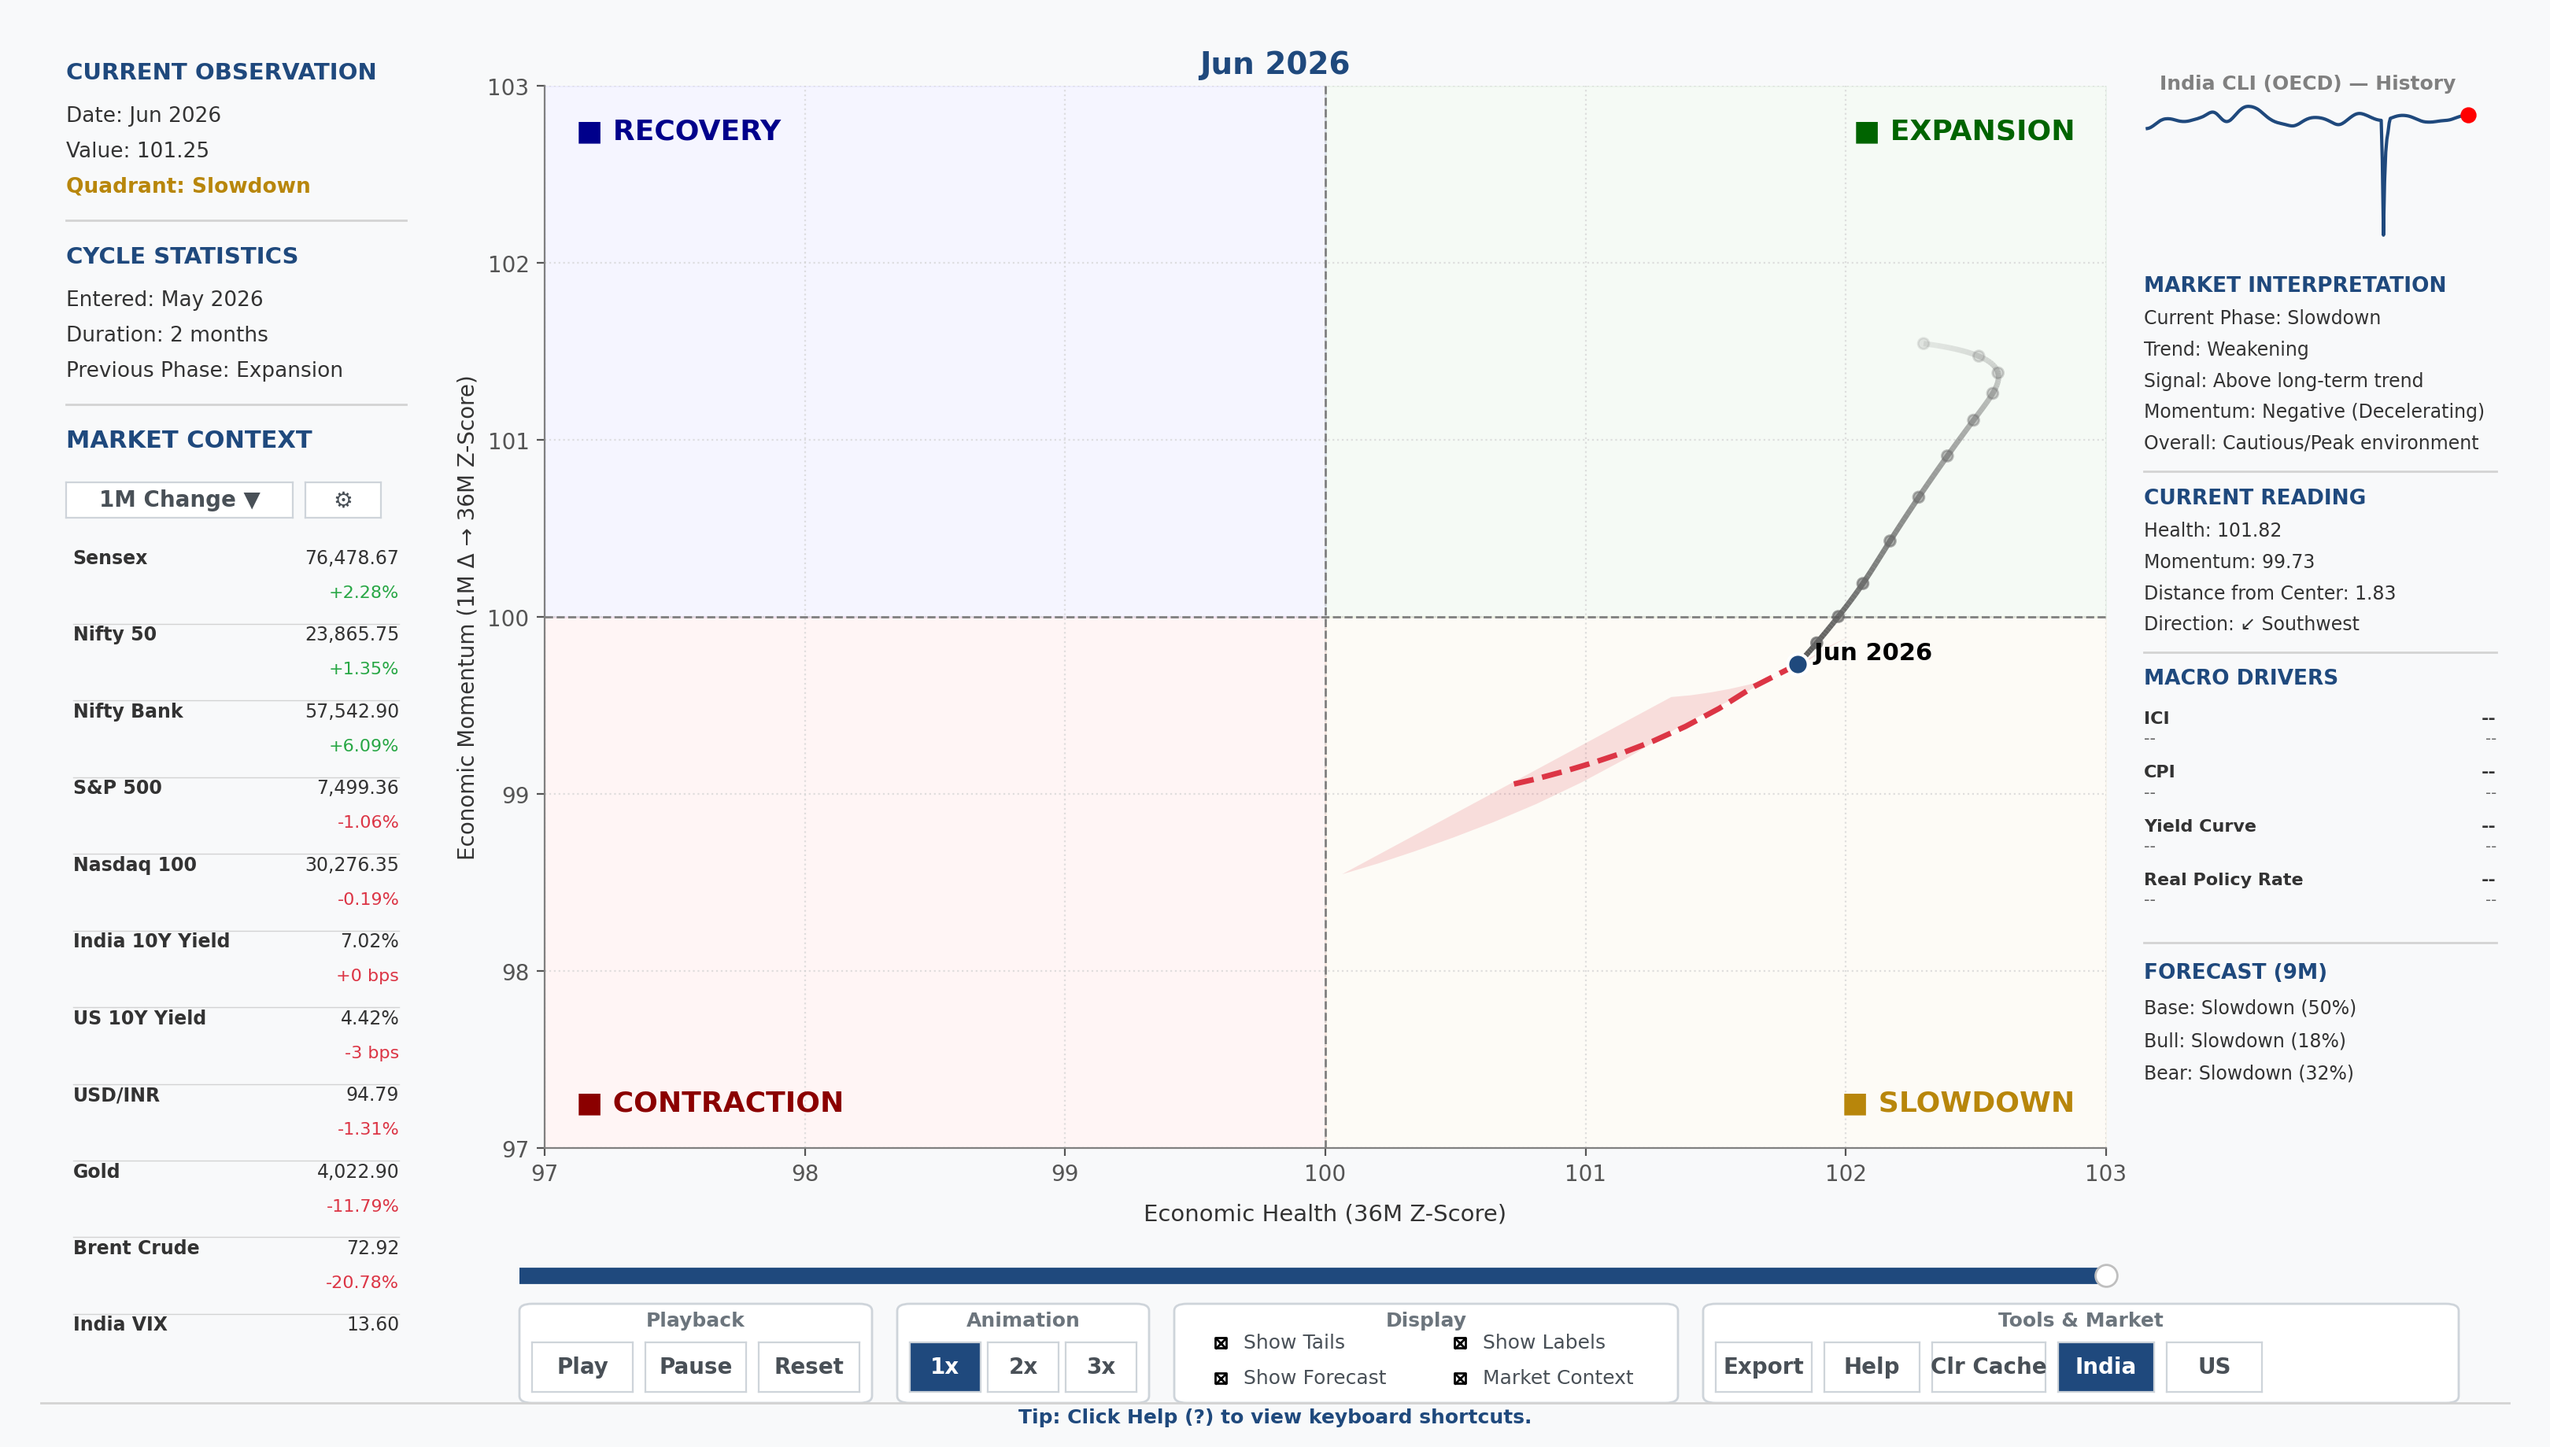
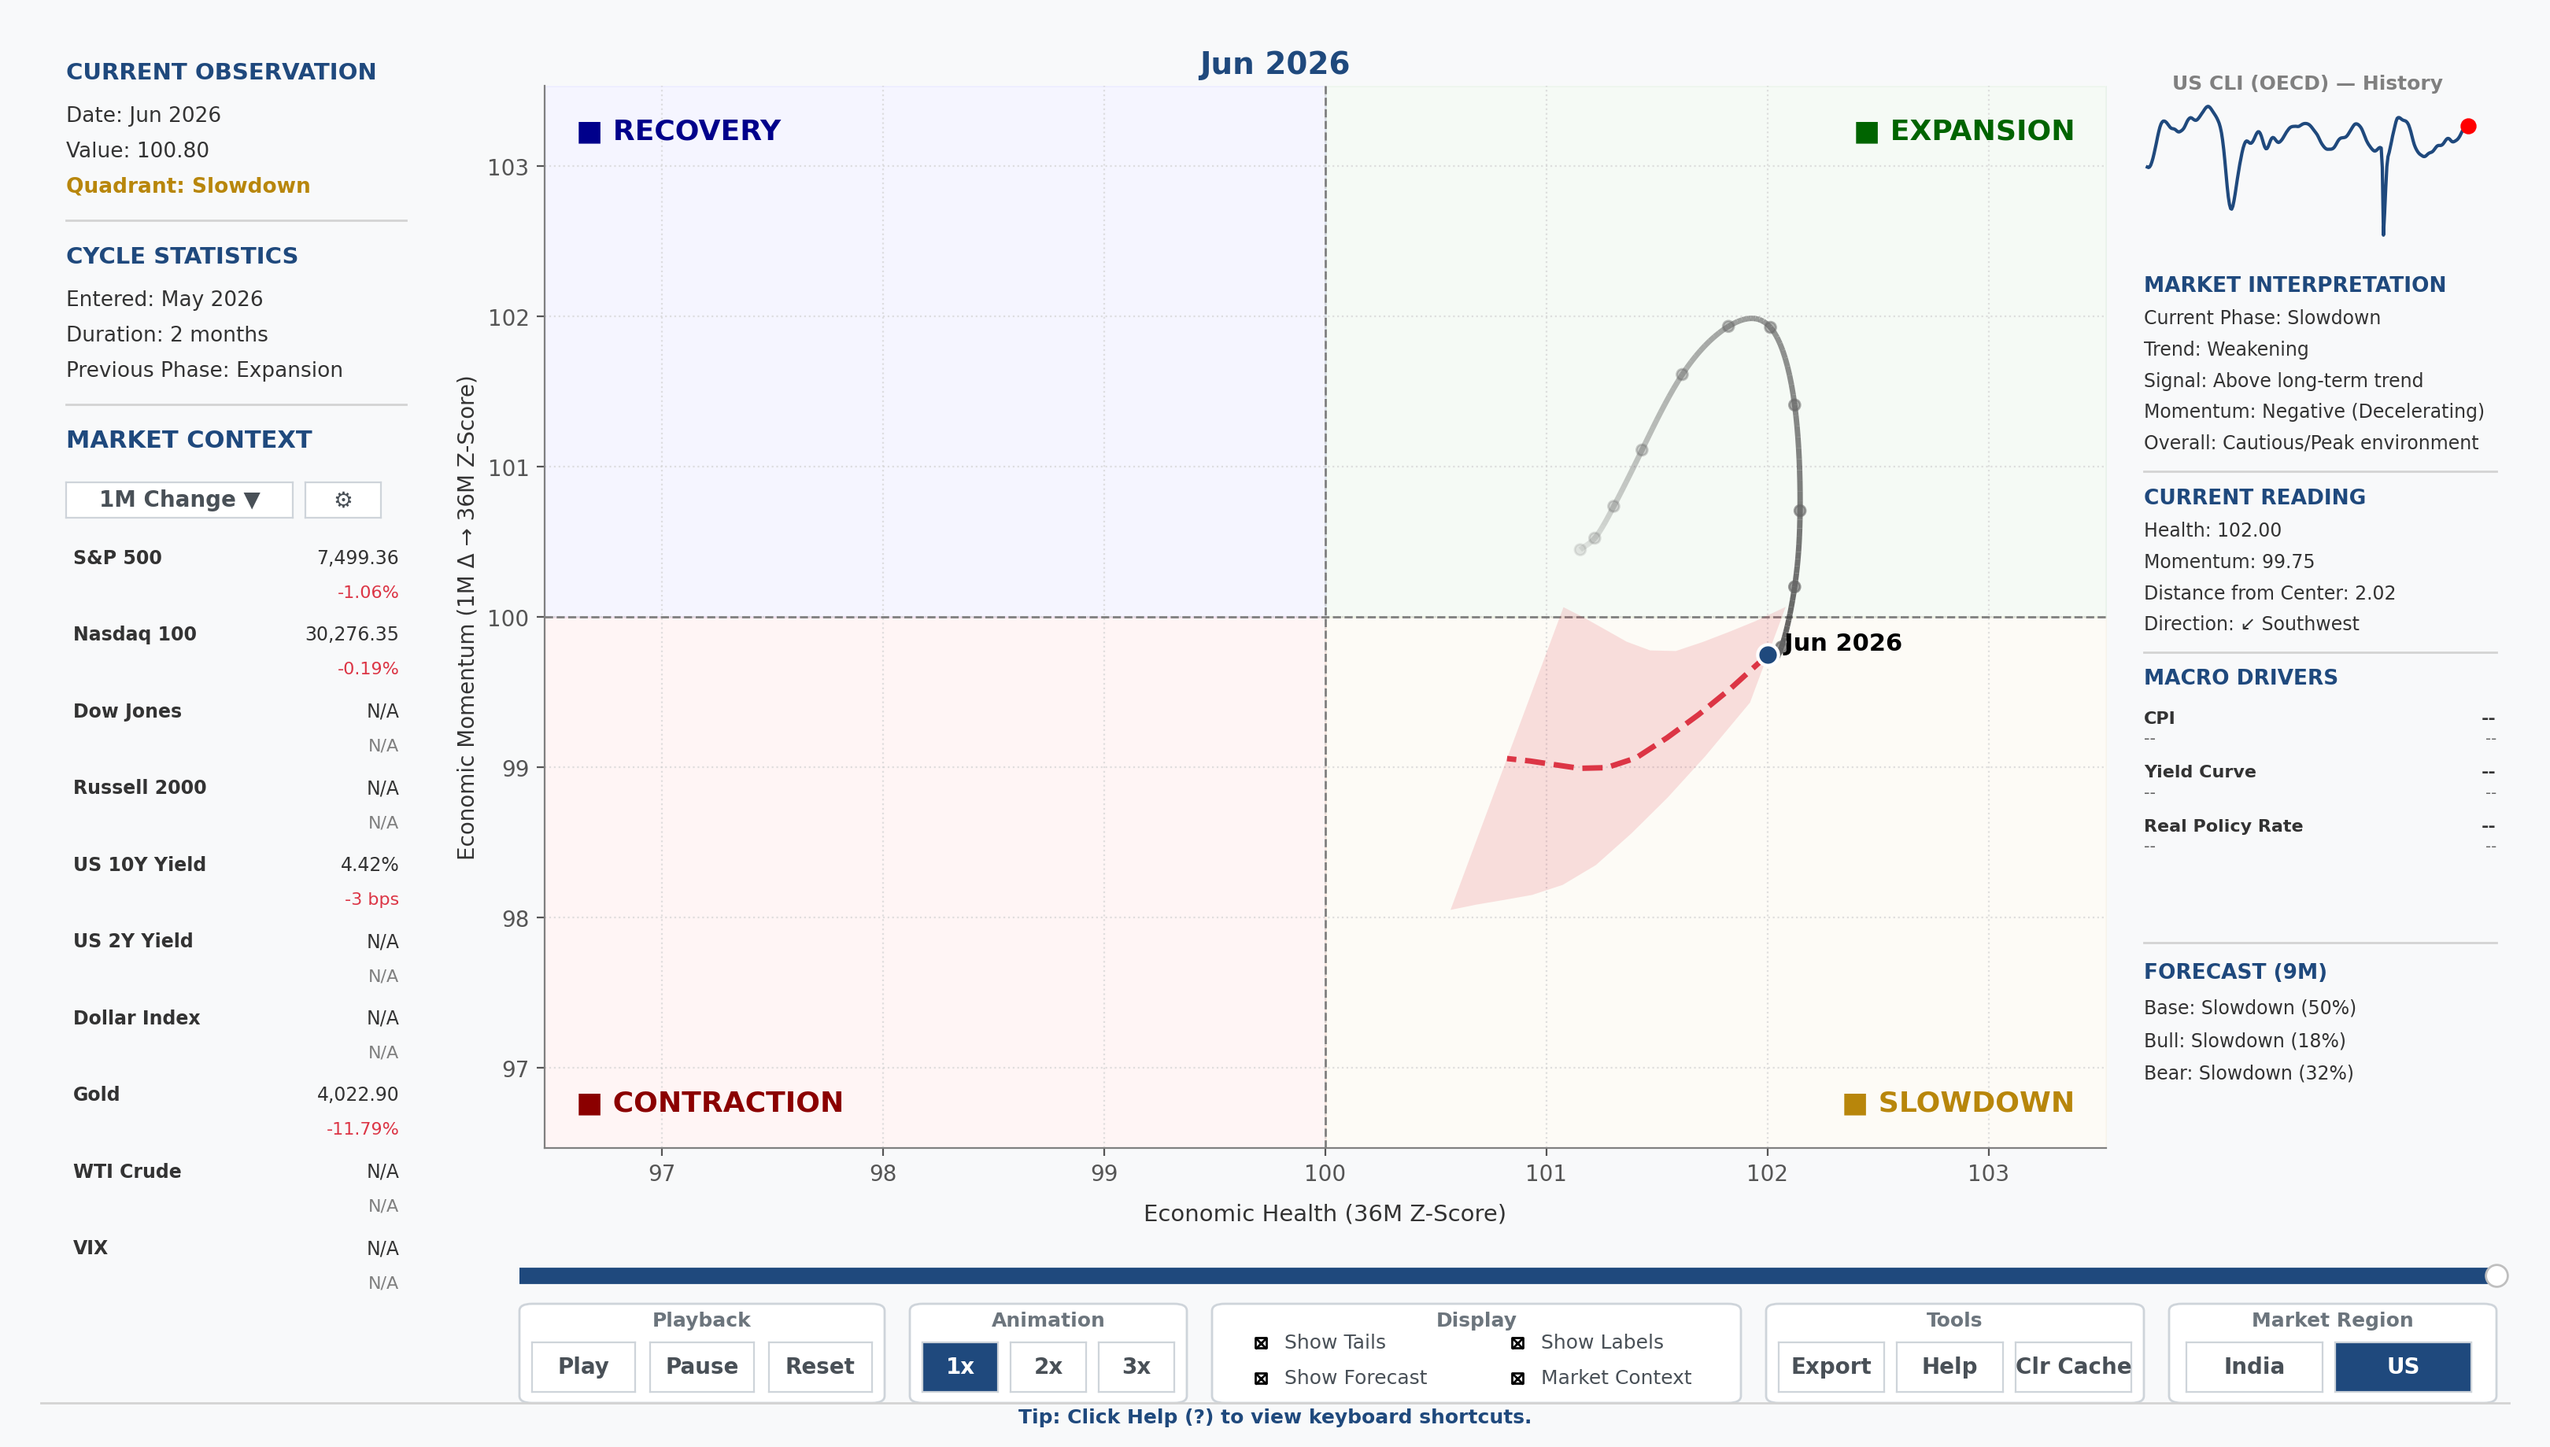
fix: UI polish - remove market divider lines, simplify macro driver labels, update sparkline on market switch

diff --git a/ui/app.py b/ui/app.py
@@ -65,7 +65,7 @@ class App:
          ax_market_cfg, btn_market_cfg) = create_market_panel(self.fig, self.market_series)
 
         # Slider
-        ax_slider = self.fig.add_axes([0.200, 0.10, 0.630, 0.02])
+        ax_slider = self.fig.add_axes([0.200, 0.10, 0.785, 0.02])
         self.slider = Slider(ax_slider, '', 0, self.max_frames,
                              valinit=0, valstep=1, color='#1f497d', initcolor='none')
         self.slider.valtext.set_visible(False)
@@ -74,70 +74,70 @@ class App:
         ax_bg = create_background_axes(self.fig)
         control_bg_elements = []
 
-        pad = 0.005
         grp_y, grp_h = 0.020, 0.070
 
-        # Group 1: Playback
-        control_bg_elements += draw_group_container(self.fig, ax_bg, 0.200, grp_y, 0.140, grp_h, "Playback")
-        ax_play = self.fig.add_axes([0.205, 0.028, 0.040, 0.035])
+        # Group 1: Playback (0.200 -> 0.345)
+        control_bg_elements += draw_group_container(self.fig, ax_bg, 0.200, grp_y, 0.145, grp_h, "Playback")
+        ax_play = self.fig.add_axes([0.205, 0.028, 0.041, 0.035])
         self.btn_play = self._style_button(ax_play, 'Play')
-        ax_pause = self.fig.add_axes([0.250, 0.028, 0.040, 0.035])
+        ax_pause = self.fig.add_axes([0.252, 0.028, 0.041, 0.035])
         self.btn_pause = self._style_button(ax_pause, 'Pause')
-        ax_reset = self.fig.add_axes([0.295, 0.028, 0.040, 0.035])
+        ax_reset = self.fig.add_axes([0.299, 0.028, 0.041, 0.035])
         self.btn_reset = self._style_button(ax_reset, 'Reset')
 
-        # Group 2: Animation
-        control_bg_elements += draw_group_container(self.fig, ax_bg, 0.350, grp_y, 0.100, grp_h, "Animation")
-        ax_1x = self.fig.add_axes([0.355, 0.028, 0.028, 0.035])
+        # Group 2: Animation (0.355 -> 0.465)
+        control_bg_elements += draw_group_container(self.fig, ax_bg, 0.355, grp_y, 0.110, grp_h, "Animation")
+        ax_1x = self.fig.add_axes([0.360, 0.028, 0.030, 0.035])
         self.btn_1x = self._style_button(ax_1x, '1x')
         self.btn_1x.label.set_color('#1f497d')
-        ax_2x = self.fig.add_axes([0.386, 0.028, 0.028, 0.035])
+        ax_2x = self.fig.add_axes([0.395, 0.028, 0.030, 0.035])
         self.btn_2x = self._style_button(ax_2x, '2x')
-        ax_3x = self.fig.add_axes([0.417, 0.028, 0.028, 0.035])
+        ax_3x = self.fig.add_axes([0.430, 0.028, 0.030, 0.035])
         self.btn_3x = self._style_button(ax_3x, '3x')
 
-        # Group 3: Display
-        control_bg_elements += draw_group_container(self.fig, ax_bg, 0.460, grp_y, 0.200, grp_h, "Display")
-        ax_chk_tails = self.fig.add_axes([0.465, 0.045, 0.090, 0.035])
+        # Group 3: Display (0.475 -> 0.685)
+        control_bg_elements += draw_group_container(self.fig, ax_bg, 0.475, grp_y, 0.210, grp_h, "Display")
+        ax_chk_tails = self.fig.add_axes([0.480, 0.045, 0.095, 0.035])
         self.chk_tails = self._style_check(ax_chk_tails, ('Show Tails',), (True,))
-        ax_chk_labels = self.fig.add_axes([0.560, 0.045, 0.090, 0.035])
+        ax_chk_labels = self.fig.add_axes([0.582, 0.045, 0.095, 0.035])
         self.chk_labels = self._style_check(ax_chk_labels, ('Show Labels',), (True,))
-        ax_chk_forecast = self.fig.add_axes([0.465, 0.020, 0.090, 0.035])
+        ax_chk_forecast = self.fig.add_axes([0.480, 0.020, 0.095, 0.035])
         self.chk_forecast = self._style_check(ax_chk_forecast, ('Show Forecast',), (True,))
-        ax_chk_market = self.fig.add_axes([0.560, 0.020, 0.090, 0.035])
+        ax_chk_market = self.fig.add_axes([0.582, 0.020, 0.095, 0.035])
         self.chk_market = self._style_check(ax_chk_market, ('Market Context',), (True,))
 
-        # Group 4: Tools
-        control_bg_elements += draw_group_container(self.fig, ax_bg, 0.670, grp_y, 0.300, grp_h, "Tools & Market")
-        ax_export = self.fig.add_axes([0.675, 0.028, 0.038, 0.035])
+        # Group 4: Tools (0.695 -> 0.845)
+        control_bg_elements += draw_group_container(self.fig, ax_bg, 0.695, grp_y, 0.150, grp_h, "Tools")
+        ax_export = self.fig.add_axes([0.700, 0.028, 0.042, 0.035])
         self.btn_export = self._style_button(ax_export, 'Export')
-        ax_help = self.fig.add_axes([0.718, 0.028, 0.038, 0.035])
+        ax_help = self.fig.add_axes([0.747, 0.028, 0.042, 0.035])
         self.btn_help = self._style_button(ax_help, 'Help')
-        ax_cache = self.fig.add_axes([0.761, 0.028, 0.045, 0.035])
+        ax_cache = self.fig.add_axes([0.794, 0.028, 0.046, 0.035])
         self.btn_cache = self._style_button(ax_cache, 'Clr Cache')
 
-        # Market selector
+        # Group 5: Market Region (0.855 -> 0.985)
+        control_bg_elements += draw_group_container(self.fig, ax_bg, 0.855, grp_y, 0.130, grp_h, "Market Region")
         try:
             from ..config import get_current_market
         except ImportError:
             from config import get_current_market
         current_market = get_current_market()
 
-        ax_market_india = self.fig.add_axes([0.811, 0.028, 0.038, 0.035])
-        self.btn_market_india = Button(ax_market_india, 'India', color='#ffffff', hovercolor='#e9ecef')
+        ax_market_india = self.fig.add_axes([0.862, 0.028, 0.054, 0.035])
+        self.btn_market_india = Button(ax_market_india, 'India', color='#1f497d' if current_market == 'india' else '#ffffff', hovercolor='#e9ecef')
         self.btn_market_india.label.set_fontsize(10)
         self.btn_market_india.label.set_fontweight('bold')
-        self.btn_market_india.label.set_color('#495057')
+        self.btn_market_india.label.set_color('#ffffff' if current_market == 'india' else '#495057')
         for spine in ax_market_india.spines.values():
-            spine.set_color('#ced4da')
+            spine.set_color('#1f497d' if current_market == 'india' else '#ced4da')
 
-        ax_market_us = self.fig.add_axes([0.854, 0.028, 0.038, 0.035])
-        self.btn_market_us = Button(ax_market_us, 'US', color='#ffffff', hovercolor='#e9ecef')
+        ax_market_us = self.fig.add_axes([0.921, 0.028, 0.054, 0.035])
+        self.btn_market_us = Button(ax_market_us, 'US', color='#1f497d' if current_market == 'us' else '#ffffff', hovercolor='#e9ecef')
         self.btn_market_us.label.set_fontsize(10)
         self.btn_market_us.label.set_fontweight('bold')
-        self.btn_market_us.label.set_color('#495057')
+        self.btn_market_us.label.set_color('#ffffff' if current_market == 'us' else '#495057')
         for spine in ax_market_us.spines.values():
-            spine.set_color('#ced4da')
+            spine.set_color('#1f497d' if current_market == 'us' else '#ced4da')
 
         if current_market == 'INDIA':
             self.btn_market_india.color = '#1f497d'
@@ -299,8 +299,28 @@ class App:
             label.set_fontsize(9)
         return chk
 
+    def update_sparkline(self):
+        """Re-plot the right sidebar historic sparkline graph to match current self.df."""
+        self.ax_spark.clear()
+        self.ax_spark.plot(self.df.index, self.df['CLI_Raw'], color='#1f497d', linewidth=1.5)
+        self.ax_spark.axis('off')
+        self.ax_spark.set_title(f"{self.config['name']} — History", fontsize=9, color='gray', pad=5, fontweight='bold')
+        self.spark_pt = self.ax_spark.scatter([], [], color='red', s=40, zorder=5)
+        self.plot_elements['spark_pt'] = self.spark_pt
+        self.plot_elements['ax_spark'] = self.ax_spark
+
+    def update_indicator_config(self):
+        """Update window title and main axes labels after an indicator/market switch."""
+        try:
+            if hasattr(self.fig.canvas.manager, 'set_window_title'):
+                self.fig.canvas.manager.set_window_title(f"Macro Intelligence Platform - {self.config['name']}")
+        except Exception:
+            pass
+        self.ax.set_xlabel(f"Economic Health ({self.config['window']}M Z-Score)", fontsize=10.5, labelpad=8, color='#333333')
+        self.ax.set_ylabel(f"Economic Momentum (1M Δ → {self.config['window']}M Z-Score)", fontsize=10, labelpad=4, color='#333333')
+
     def rebuild_market_panel(self):
-        """Rebuild the market-panel text artists to match self.market_series.
+        """Rebuild the market-panel text artists and sparkline graph to match current market.
 
         Needed after a market switch: the panel's texts are keyed by series
         name, and INDIA/US expose different series names, so the widgets
@@ -321,6 +341,8 @@ class App:
         self.ax_market.set_ylim(0, 1)
 
         self._update_market_layout()
+        self.update_sparkline()
+        self.update_indicator_config()
 
     def _update_market_layout(self):
         m_state = self.plot_elements['market_state']
@@ -335,7 +357,7 @@ class App:
                 texts['name'].set_visible(True)
                 texts['val'].set_visible(True)
                 texts['chg'].set_visible(True)
-                texts['sep'].set_visible(True)
+                texts['sep'].set_visible(False)
                 y_pos -= 0.095
             else:
                 texts['name'].set_visible(False)
@@ -488,14 +510,6 @@ class App:
                 pct = pe[f'driver_{name}_pct']
                 
                 display_name = name if name != 'Yield Spread' else 'Yield Curve'
-                
-                meta = self.data_metadata.get(name, {})
-                if meta:
-                    cache_status = meta.get('cache_status', '')
-                    emoji = cache_status.split(' ')[0] if cache_status else ''
-                    rel_date = meta.get('release_date', '')
-                    if rel_date:
-                        display_name = f"{display_name} {emoji} ({rel_date})"
 
                 if d['state'] != 'Unknown':
                     yoy_val = d.get('yoy_value', np.nan)
@@ -622,9 +636,9 @@ class App:
                 texts['val'].set_visible(True)
                 texts['chg'].set_visible(True)
 
-                cur_val = df[name].iloc[idx]
-                prev_val = df[name].iloc[prev_i]
-                fmt_str = series_info['format']
+                cur_val = df[name].iloc[idx] if name in df.columns else np.nan
+                prev_val = df[name].iloc[prev_i] if name in df.columns else np.nan
+                fmt_str = series_info.get('format', '{:,.2f}')
 
                 if pd.isna(cur_val):
                     texts['val'].set_text("N/A")

diff --git a/ui/sidebars.py b/ui/sidebars.py
@@ -132,10 +132,7 @@ def build_market_texts(ax_market, market_series: dict) -> dict:
         t_chg = ax_market.text(0.98, y_pos - 0.042, "--", fontsize=8.0, ha='right',
                                color='gray', transform=ax_market.transData, clip_on=True)
 
-        sep_line, = ax_market.plot([0.02, 0.98], [y_pos - 0.075, y_pos - 0.075],
-                                   color='lightgray', linewidth=0.5,
-                                   transform=ax_market.transData)
-        sep_line.set_clip_on(True)
+        sep_line, = ax_market.plot([], [], visible=False)
 
         market_texts[name] = {'name': t_name, 'val': t_val, 'chg': t_chg,
                               'sep': sep_line, 'y0': y_pos}

diff --git a/main.py b/main.py
@@ -58,10 +58,12 @@ def main():
         app.spline_data = new_spline
         app.config = CONFIG.copy()
         app.market_series = MARKET_SERIES.copy()
+        app.max_frames = len(new_df) - 1
+        app.slider.valmax = app.max_frames
+        app.slider.ax.set_xlim(0, app.max_frames)
         app.rebuild_market_panel()
         app.data_metadata = new_engine.get_metadata
-        app.max_frames = len(new_df) - 1
-        app.state['current_frame'] = 0
+        app.state['current_frame'] = app.max_frames
 
         # Redraw at latest frame
         app.slider.set_val(app.max_frames)
